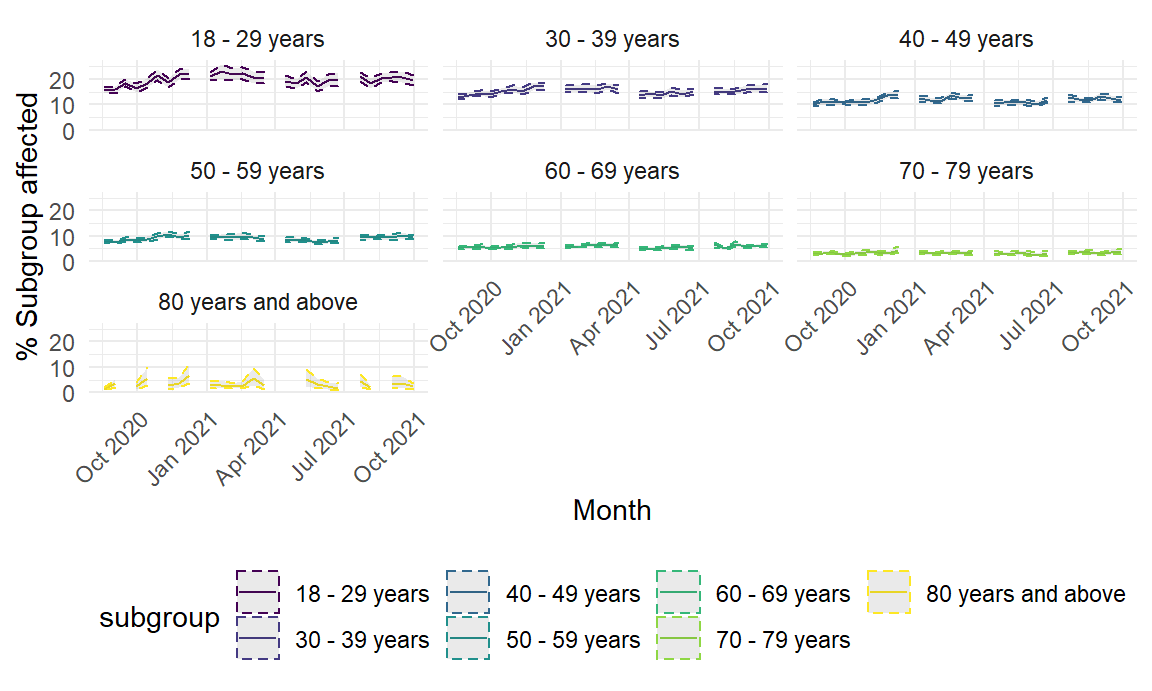
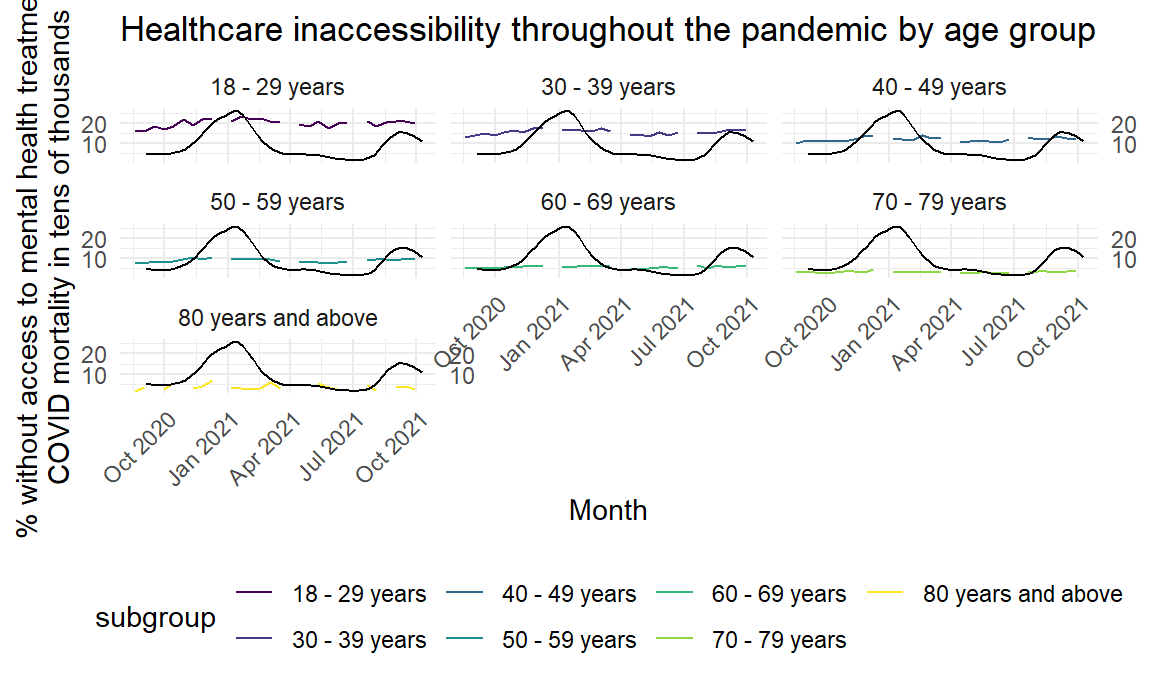
spatial analysis added to site

diff --git a/mental_health.html b/mental_health.html
@@ -340,6 +340,9 @@ div.tocify {
   <a href="analysis_2.html">Data Exploration</a>
 </li>
 <li>
+  <a href="spatial-analysis.html">Spatial Analysis</a>
+</li>
+<li>
   <a href="dashboard.html">Dashboard</a>
 </li>
 <li>
@@ -385,7 +388,7 @@ div.tocify {
 <p>The proportion of Americans who were not able to get access to mental health care when they needed it, by age (4x4 facet by age) The proportion of Americans who used pharmaceuticals for their mental health, by age (4x4 facet by age)</p>
 <p>4x4 with CIs or one chart with no CI (adding CI might get messy)</p>
 <p>Maybe overlay a second set of axes (x2=x1, y2 = COVID count of deaths by end of week) to compare COVID deaths to the mental health status by age?</p>
-<p>COVID mortality from Oct 2020 to Oct 2021</p>
+<p>We include a crude graph of COVID mortality from Oct 2020 to Oct 2021 to add context</p>
 <pre class="r"><code>cm_df = read_csv(&quot;Provisional_COVID-19_Death_Counts_by_Week_Ending_Date_and_State.csv&quot;) %&gt;% 
   janitor::clean_names() %&gt;%
   mutate(
@@ -424,8 +427,8 @@ div.tocify {
   ggplot(aes(x = end_date, y = covid_19_deaths)) + 
   geom_line()
 ggplotly(z)</code></pre>
-<div id="htmlwidget-cf94200eb63e150bdd5d" style="width:90%;height:345.6px;" class="plotly html-widget"></div>
-<script type="application/json" data-for="htmlwidget-cf94200eb63e150bdd5d">{"x":{"data":[{"x":[18510,18517,18524,18531,18538,18545,18552,18559,18566,18573,18580,18587,18594,18601,18608,18615,18622,18629,18636,18643,18650,18657,18664,18671,18678,18685,18692,18699,18706,18713,18720,18727,18734,18741,18748,18755,18762,18769,18776,18783,18790,18797,18804,18811,18818,18825,18832,18839,18846,18853,18860,18867,18874,18881,18888,18895,18902,18909],"y":[5018,4625,4276,4300,4242,4818,5199,5996,7025,8760,10651,13359,15623,18564,20923,22327,23379,24869,25986,25705,23677,20312,17028,13519,10813,8640,6717,5711,4887,4441,4181,4295,4434,4578,4158,3980,3671,3226,2764,2341,2033,1769,1625,1533,1637,1974,2754,4091,6427,9293,12059,13992,15235,15101,14926,14010,12385,10829],"text":["end_date: 2020-09-05<br />covid_19_deaths:  5018","end_date: 2020-09-12<br />covid_19_deaths:  4625","end_date: 2020-09-19<br />covid_19_deaths:  4276","end_date: 2020-09-26<br />covid_19_deaths:  4300","end_date: 2020-10-03<br />covid_19_deaths:  4242","end_date: 2020-10-10<br />covid_19_deaths:  4818","end_date: 2020-10-17<br />covid_19_deaths:  5199","end_date: 2020-10-24<br />covid_19_deaths:  5996","end_date: 2020-10-31<br />covid_19_deaths:  7025","end_date: 2020-11-07<br />covid_19_deaths:  8760","end_date: 2020-11-14<br />covid_19_deaths: 10651","end_date: 2020-11-21<br />covid_19_deaths: 13359","end_date: 2020-11-28<br />covid_19_deaths: 15623","end_date: 2020-12-05<br />covid_19_deaths: 18564","end_date: 2020-12-12<br />covid_19_deaths: 20923","end_date: 2020-12-19<br />covid_19_deaths: 22327","end_date: 2020-12-26<br />covid_19_deaths: 23379","end_date: 2021-01-02<br />covid_19_deaths: 24869","end_date: 2021-01-09<br />covid_19_deaths: 25986","end_date: 2021-01-16<br />covid_19_deaths: 25705","end_date: 2021-01-23<br />covid_19_deaths: 23677","end_date: 2021-01-30<br />covid_19_deaths: 20312","end_date: 2021-02-06<br />covid_19_deaths: 17028","end_date: 2021-02-13<br />covid_19_deaths: 13519","end_date: 2021-02-20<br />covid_19_deaths: 10813","end_date: 2021-02-27<br />covid_19_deaths:  8640","end_date: 2021-03-06<br />covid_19_deaths:  6717","end_date: 2021-03-13<br />covid_19_deaths:  5711","end_date: 2021-03-20<br />covid_19_deaths:  4887","end_date: 2021-03-27<br />covid_19_deaths:  4441","end_date: 2021-04-03<br />covid_19_deaths:  4181","end_date: 2021-04-10<br />covid_19_deaths:  4295","end_date: 2021-04-17<br />covid_19_deaths:  4434","end_date: 2021-04-24<br />covid_19_deaths:  4578","end_date: 2021-05-01<br />covid_19_deaths:  4158","end_date: 2021-05-08<br />covid_19_deaths:  3980","end_date: 2021-05-15<br />covid_19_deaths:  3671","end_date: 2021-05-22<br />covid_19_deaths:  3226","end_date: 2021-05-29<br />covid_19_deaths:  2764","end_date: 2021-06-05<br />covid_19_deaths:  2341","end_date: 2021-06-12<br />covid_19_deaths:  2033","end_date: 2021-06-19<br />covid_19_deaths:  1769","end_date: 2021-06-26<br />covid_19_deaths:  1625","end_date: 2021-07-03<br />covid_19_deaths:  1533","end_date: 2021-07-10<br />covid_19_deaths:  1637","end_date: 2021-07-17<br />covid_19_deaths:  1974","end_date: 2021-07-24<br />covid_19_deaths:  2754","end_date: 2021-07-31<br />covid_19_deaths:  4091","end_date: 2021-08-07<br />covid_19_deaths:  6427","end_date: 2021-08-14<br />covid_19_deaths:  9293","end_date: 2021-08-21<br />covid_19_deaths: 12059","end_date: 2021-08-28<br />covid_19_deaths: 13992","end_date: 2021-09-04<br />covid_19_deaths: 15235","end_date: 2021-09-11<br />covid_19_deaths: 15101","end_date: 2021-09-18<br />covid_19_deaths: 14926","end_date: 2021-09-25<br />covid_19_deaths: 14010","end_date: 2021-10-02<br />covid_19_deaths: 12385","end_date: 2021-10-09<br />covid_19_deaths: 10829"],"type":"scatter","mode":"lines","line":{"width":1.88976377952756,"color":"rgba(0,0,0,1)","dash":"solid"},"hoveron":"points","showlegend":false,"xaxis":"x","yaxis":"y","hoverinfo":"text","frame":null}],"layout":{"margin":{"t":28.1800844517574,"r":7.30593607305936,"b":42.1344223513008,"l":54.7945205479452},"font":{"color":"rgba(0,0,0,1)","family":"","size":14.6118721461187},"xaxis":{"domain":[0,1],"automargin":true,"type":"linear","autorange":false,"range":[18490.05,18928.95],"tickmode":"array","ticktext":["Oct 2020","Jan 2021","Apr 2021","Jul 2021","Oct 2021"],"tickvals":[18536,18628,18718,18809,18901],"categoryorder":"array","categoryarray":["Oct 2020","Jan 2021","Apr 2021","Jul 2021","Oct 2021"],"nticks":null,"ticks":"","tickcolor":null,"ticklen":3.65296803652968,"tickwidth":0,"showticklabels":true,"tickfont":{"color":"rgba(77,77,77,1)","family":"","size":11.689497716895},"tickangle":-0,"showline":false,"linecolor":null,"linewidth":0,"showgrid":true,"gridcolor":"rgba(235,235,235,1)","gridwidth":0.66417600664176,"zeroline":false,"anchor":"y","title":{"text":"end_date","font":{"color":"rgba(0,0,0,1)","family":"","size":14.6118721461187}},"hoverformat":".2f"},"yaxis":{"domain":[0,1],"automargin":true,"type":"linear","autorange":false,"range":[310.35,27208.65],"tickmode":"array","ticktext":["10000","20000"],"tickvals":[10000,20000],"categoryorder":"array","categoryarray":["10000","20000"],"nticks":null,"ticks":"","tickcolor":null,"ticklen":3.65296803652968,"tickwidth":0,"showticklabels":true,"tickfont":{"color":"rgba(77,77,77,1)","family":"","size":11.689497716895},"tickangle":-0,"showline":false,"linecolor":null,"linewidth":0,"showgrid":true,"gridcolor":"rgba(235,235,235,1)","gridwidth":0.66417600664176,"zeroline":false,"anchor":"x","title":{"text":"covid_19_deaths","font":{"color":"rgba(0,0,0,1)","family":"","size":14.6118721461187}},"hoverformat":".2f"},"shapes":[{"type":"rect","fillcolor":null,"line":{"color":null,"width":0,"linetype":[]},"yref":"paper","xref":"paper","x0":0,"x1":1,"y0":0,"y1":1}],"showlegend":false,"legend":{"bgcolor":null,"bordercolor":null,"borderwidth":0,"font":{"color":"rgba(0,0,0,1)","family":"","size":11.689497716895}},"hovermode":"closest","barmode":"relative"},"config":{"doubleClick":"reset","modeBarButtonsToAdd":["hoverclosest","hovercompare"],"showSendToCloud":false},"source":"A","attrs":{"7fa0374166e":{"x":{},"y":{},"type":"scatter"}},"cur_data":"7fa0374166e","visdat":{"7fa0374166e":["function (y) ","x"]},"highlight":{"on":"plotly_click","persistent":false,"dynamic":false,"selectize":false,"opacityDim":0.2,"selected":{"opacity":1},"debounce":0},"shinyEvents":["plotly_hover","plotly_click","plotly_selected","plotly_relayout","plotly_brushed","plotly_brushing","plotly_clickannotation","plotly_doubleclick","plotly_deselect","plotly_afterplot","plotly_sunburstclick"],"base_url":"https://plot.ly"},"evals":[],"jsHooks":[]}</script>
+<div id="htmlwidget-7491f849949b169d29a2" style="width:90%;height:345.6px;" class="plotly html-widget"></div>
+<script type="application/json" data-for="htmlwidget-7491f849949b169d29a2">{"x":{"data":[{"x":[18510,18517,18524,18531,18538,18545,18552,18559,18566,18573,18580,18587,18594,18601,18608,18615,18622,18629,18636,18643,18650,18657,18664,18671,18678,18685,18692,18699,18706,18713,18720,18727,18734,18741,18748,18755,18762,18769,18776,18783,18790,18797,18804,18811,18818,18825,18832,18839,18846,18853,18860,18867,18874,18881,18888,18895,18902,18909],"y":[5018,4625,4276,4300,4242,4818,5199,5996,7025,8760,10651,13359,15623,18564,20923,22327,23379,24869,25986,25705,23677,20312,17028,13519,10813,8640,6717,5711,4887,4441,4181,4295,4434,4578,4158,3980,3671,3226,2764,2341,2033,1769,1625,1533,1637,1974,2754,4091,6427,9293,12059,13992,15235,15101,14926,14010,12385,10829],"text":["end_date: 2020-09-05<br />covid_19_deaths:  5018","end_date: 2020-09-12<br />covid_19_deaths:  4625","end_date: 2020-09-19<br />covid_19_deaths:  4276","end_date: 2020-09-26<br />covid_19_deaths:  4300","end_date: 2020-10-03<br />covid_19_deaths:  4242","end_date: 2020-10-10<br />covid_19_deaths:  4818","end_date: 2020-10-17<br />covid_19_deaths:  5199","end_date: 2020-10-24<br />covid_19_deaths:  5996","end_date: 2020-10-31<br />covid_19_deaths:  7025","end_date: 2020-11-07<br />covid_19_deaths:  8760","end_date: 2020-11-14<br />covid_19_deaths: 10651","end_date: 2020-11-21<br />covid_19_deaths: 13359","end_date: 2020-11-28<br />covid_19_deaths: 15623","end_date: 2020-12-05<br />covid_19_deaths: 18564","end_date: 2020-12-12<br />covid_19_deaths: 20923","end_date: 2020-12-19<br />covid_19_deaths: 22327","end_date: 2020-12-26<br />covid_19_deaths: 23379","end_date: 2021-01-02<br />covid_19_deaths: 24869","end_date: 2021-01-09<br />covid_19_deaths: 25986","end_date: 2021-01-16<br />covid_19_deaths: 25705","end_date: 2021-01-23<br />covid_19_deaths: 23677","end_date: 2021-01-30<br />covid_19_deaths: 20312","end_date: 2021-02-06<br />covid_19_deaths: 17028","end_date: 2021-02-13<br />covid_19_deaths: 13519","end_date: 2021-02-20<br />covid_19_deaths: 10813","end_date: 2021-02-27<br />covid_19_deaths:  8640","end_date: 2021-03-06<br />covid_19_deaths:  6717","end_date: 2021-03-13<br />covid_19_deaths:  5711","end_date: 2021-03-20<br />covid_19_deaths:  4887","end_date: 2021-03-27<br />covid_19_deaths:  4441","end_date: 2021-04-03<br />covid_19_deaths:  4181","end_date: 2021-04-10<br />covid_19_deaths:  4295","end_date: 2021-04-17<br />covid_19_deaths:  4434","end_date: 2021-04-24<br />covid_19_deaths:  4578","end_date: 2021-05-01<br />covid_19_deaths:  4158","end_date: 2021-05-08<br />covid_19_deaths:  3980","end_date: 2021-05-15<br />covid_19_deaths:  3671","end_date: 2021-05-22<br />covid_19_deaths:  3226","end_date: 2021-05-29<br />covid_19_deaths:  2764","end_date: 2021-06-05<br />covid_19_deaths:  2341","end_date: 2021-06-12<br />covid_19_deaths:  2033","end_date: 2021-06-19<br />covid_19_deaths:  1769","end_date: 2021-06-26<br />covid_19_deaths:  1625","end_date: 2021-07-03<br />covid_19_deaths:  1533","end_date: 2021-07-10<br />covid_19_deaths:  1637","end_date: 2021-07-17<br />covid_19_deaths:  1974","end_date: 2021-07-24<br />covid_19_deaths:  2754","end_date: 2021-07-31<br />covid_19_deaths:  4091","end_date: 2021-08-07<br />covid_19_deaths:  6427","end_date: 2021-08-14<br />covid_19_deaths:  9293","end_date: 2021-08-21<br />covid_19_deaths: 12059","end_date: 2021-08-28<br />covid_19_deaths: 13992","end_date: 2021-09-04<br />covid_19_deaths: 15235","end_date: 2021-09-11<br />covid_19_deaths: 15101","end_date: 2021-09-18<br />covid_19_deaths: 14926","end_date: 2021-09-25<br />covid_19_deaths: 14010","end_date: 2021-10-02<br />covid_19_deaths: 12385","end_date: 2021-10-09<br />covid_19_deaths: 10829"],"type":"scatter","mode":"lines","line":{"width":1.88976377952756,"color":"rgba(0,0,0,1)","dash":"solid"},"hoveron":"points","showlegend":false,"xaxis":"x","yaxis":"y","hoverinfo":"text","frame":null}],"layout":{"margin":{"t":28.1800844517574,"r":7.30593607305936,"b":42.1344223513008,"l":54.7945205479452},"font":{"color":"rgba(0,0,0,1)","family":"","size":14.6118721461187},"xaxis":{"domain":[0,1],"automargin":true,"type":"linear","autorange":false,"range":[18490.05,18928.95],"tickmode":"array","ticktext":["Oct 2020","Jan 2021","Apr 2021","Jul 2021","Oct 2021"],"tickvals":[18536,18628,18718,18809,18901],"categoryorder":"array","categoryarray":["Oct 2020","Jan 2021","Apr 2021","Jul 2021","Oct 2021"],"nticks":null,"ticks":"","tickcolor":null,"ticklen":3.65296803652968,"tickwidth":0,"showticklabels":true,"tickfont":{"color":"rgba(77,77,77,1)","family":"","size":11.689497716895},"tickangle":-0,"showline":false,"linecolor":null,"linewidth":0,"showgrid":true,"gridcolor":"rgba(235,235,235,1)","gridwidth":0.66417600664176,"zeroline":false,"anchor":"y","title":{"text":"end_date","font":{"color":"rgba(0,0,0,1)","family":"","size":14.6118721461187}},"hoverformat":".2f"},"yaxis":{"domain":[0,1],"automargin":true,"type":"linear","autorange":false,"range":[310.35,27208.65],"tickmode":"array","ticktext":["10000","20000"],"tickvals":[10000,20000],"categoryorder":"array","categoryarray":["10000","20000"],"nticks":null,"ticks":"","tickcolor":null,"ticklen":3.65296803652968,"tickwidth":0,"showticklabels":true,"tickfont":{"color":"rgba(77,77,77,1)","family":"","size":11.689497716895},"tickangle":-0,"showline":false,"linecolor":null,"linewidth":0,"showgrid":true,"gridcolor":"rgba(235,235,235,1)","gridwidth":0.66417600664176,"zeroline":false,"anchor":"x","title":{"text":"covid_19_deaths","font":{"color":"rgba(0,0,0,1)","family":"","size":14.6118721461187}},"hoverformat":".2f"},"shapes":[{"type":"rect","fillcolor":null,"line":{"color":null,"width":0,"linetype":[]},"yref":"paper","xref":"paper","x0":0,"x1":1,"y0":0,"y1":1}],"showlegend":false,"legend":{"bgcolor":null,"bordercolor":null,"borderwidth":0,"font":{"color":"rgba(0,0,0,1)","family":"","size":11.689497716895}},"hovermode":"closest","barmode":"relative"},"config":{"doubleClick":"reset","modeBarButtonsToAdd":["hoverclosest","hovercompare"],"showSendToCloud":false},"source":"A","attrs":{"7a147a28ce4":{"x":{},"y":{},"type":"scatter"}},"cur_data":"7a147a28ce4","visdat":{"7a147a28ce4":["function (y) ","x"]},"highlight":{"on":"plotly_click","persistent":false,"dynamic":false,"selectize":false,"opacityDim":0.2,"selected":{"opacity":1},"debounce":0},"shinyEvents":["plotly_hover","plotly_click","plotly_selected","plotly_relayout","plotly_brushed","plotly_brushing","plotly_clickannotation","plotly_doubleclick","plotly_deselect","plotly_afterplot","plotly_sunburstclick"],"base_url":"https://plot.ly"},"evals":[],"jsHooks":[]}</script>
 <p>Cleaning Mental Healthcare data, filtering separately by age and state</p>
 <pre class="r"><code>mh_care_df = read_csv(&quot;Mental_Health_Care_in_the_Last_4_Weeks.csv&quot;) %&gt;%  
   janitor::clean_names() %&gt;% 
@@ -447,7 +450,8 @@ ggplotly(z)</code></pre>
 ## i Specify the column types or set `show_col_types = FALSE` to quiet this message.</code></pre>
 <pre class="r"><code>mh_age = c(&quot;18 - 29 years&quot;, &quot;30 - 39 years&quot;, &quot;40 - 49 years&quot;, &quot;50 - 59 years&quot;, &quot;60 - 69 years&quot;, &quot;70 - 79 years&quot;, &quot;80 years and above&quot;)
 
-mh_age_df = mh_care_df %&gt;% filter(subgroup %in% mh_age) %&gt;% 
+mh_age_df = mh_care_df %&gt;% 
+  filter(subgroup %in% mh_age) %&gt;% 
   #filter(indicator %in% &quot;Took Prescription Medication for Mental Health And/Or Received Counseling or Therapy, Last 4 Weeks&quot;)
   #filter(indicator %in% &quot;Took Prescription Medication for Mental Health, Last 4 Weeks&quot;)
   filter(indicator %in% &quot;Needed Counseling or Therapy But Did Not Get It, Last 4 Weeks&quot;)
@@ -455,7 +459,8 @@ mh_age_df = mh_care_df %&gt;% filter(subgroup %in% mh_age) %&gt;%
 
 mh_state = c(&quot;By Race/Hispanic ethnicity&quot;, &quot;United States&quot;, &quot;By Disability status&quot;, &quot;By Gender identity&quot;, &quot;By Age&quot;, &quot;By Sex&quot;, &quot;By Education&quot;, &quot;National Estimate&quot;, &quot;By Presence of Symptoms of Anxiety/Depression&quot;, &quot;By Sexual orientation&quot;)
 
-mh_state_df = mh_care_df %&gt;% filter(group %notin% mh_state) %&gt;% 
+mh_state_df = mh_care_df %&gt;% 
+  filter(group %notin% mh_state) %&gt;% 
   #filter(indicator %in% &quot;Took Prescription Medication for Mental Health And/Or Received Counseling or Therapy, Last 4 Weeks&quot;)
   #filter(indicator %in% &quot;Took Prescription Medication for Mental Health, Last 4 Weeks&quot;)
   filter(indicator %in% &quot;Needed Counseling or Therapy But Did Not Get It, Last 4 Weeks&quot;)
@@ -496,33 +501,34 @@ anxdep_state_df = anxdep_df %&gt;% filter(group %notin% anxdep_state) %&gt;%
 <div id="plotting-age-vs" class="section level2">
 <h2>Plotting Age vs …</h2>
 <pre class="r"><code>#Date vs subgroup w/ facet w/ CI
-mh_age_df %&gt;%
-  ggplot(aes(x = time_period_start_date, y = value, color = subgroup)) + 
-  geom_line() + 
-  geom_ribbon(aes(ymin=low_ci, ymax=high_ci), linetype=2, alpha=0.1)  + 
-  facet_wrap(vars(mh_age_df$subgroup)) +
-  theme(axis.text.x = element_text(angle = 45, hjust = 1)) +
-  labs(x = &quot;Month&quot;, y = &quot;% Subgroup affected&quot;)</code></pre>
-<p><img src="mental_health_files/figure-html/unnamed-chunk-5-1.png" width="90%" /></p>
-<pre class="r"><code>#Date vs subgroup, no facets w/ CI
-mh_age_df %&gt;%
-  ggplot(aes(x = time_period_start_date, y = value, color = subgroup)) + 
-  geom_line() + 
-  geom_ribbon(aes(ymin=low_ci, ymax=high_ci), linetype=2, alpha=0.1)  + 
-#  facet_wrap(vars(mh_age_df$subgroup)) +
-  theme(axis.text.x = element_text(angle = 45, hjust = 1)) +
-  labs(x = &quot;Month&quot;, y = &quot;% Subgroup affected&quot;, title = &quot;Healthcare inaccessibility throughout the pandemic by age group &quot;)</code></pre>
-<p><img src="mental_health_files/figure-html/unnamed-chunk-5-2.png" width="90%" /></p>
-<pre class="r"><code># mental health availability w/ facet w/o CI w/COVID mort
+# mh_age_df %&gt;%
+#   ggplot(aes(x = time_period_start_date, y = value, color = subgroup)) + 
+#   geom_line() + 
+#   geom_ribbon(aes(ymin=low_ci, ymax=high_ci), linetype=2, alpha=0.1)  + 
+#   facet_wrap(vars(mh_age_df$subgroup)) +
+#   theme(axis.text.x = element_text(angle = 45, hjust = 1), axis.text.y = element_text(angle = 45, hjust = 1)) +
+#   scale_y_continuous(breaks = seq(0, 40, 5)) +
+#   labs(x = &quot;Month&quot;, y = &quot;% Subgroup affected&quot;)
+# 
+# #Date vs subgroup, no facets w/ CI
+# mh_age_df %&gt;%
+#   ggplot(aes(x = time_period_start_date, y = value, color = subgroup)) + 
+#   geom_line() + 
+#   geom_ribbon(aes(ymin=low_ci, ymax=high_ci), linetype=2, alpha=0.1)  + 
+# #  facet_wrap(vars(mh_age_df$subgroup)) +
+#   theme(axis.text.x = element_text(angle = 45, hjust = 1), axis.text.y = element_text(angle = 45, hjust = 1)) +
+#   labs(x = &quot;Month&quot;, y = &quot;% Subgroup affected&quot;, title = &quot;Healthcare inaccessibility throughout the pandemic by age group &quot;)
+
+# mental health availability w/ facet w/o CI w/COVID mort
 ggplot() + 
   geom_line(data = mh_age_df, aes(x = time_period_start_date, y = value, color = subgroup) ) +
   geom_line(data = cm_df, aes(x = end_date, y = covid_19_deaths * 0.001) ) + 
   #geom_ribbon(aes(data = mh_age_df, ymin=low_ci, ymax=high_ci), linetype=2, alpha=0.1)  +
   facet_wrap(vars(subgroup)) +
-  scale_y_continuous(breaks = seq(0, 40, 5), sec.axis = sec_axis(trans = ~.*001)) +
+  scale_y_continuous(sec.axis = sec_axis(trans = ~.*001)) +
   theme(axis.text.x = element_text(angle = 45, hjust = 1)) + 
   labs(x = &quot;Month&quot;, y = &quot;% without access to mental health treatment \n COVID mortality in tens of thousands&quot;,title = &quot;Healthcare inaccessibility throughout the pandemic by age group &quot;)</code></pre>
-<p><img src="mental_health_files/figure-html/unnamed-chunk-5-3.png" width="90%" /></p>
+<p><img src="mental_health_files/figure-html/unnamed-chunk-5-1.png" width="90%" /></p>
 <pre class="r"><code>#ggplotly(g)
 
 ## % Screened for Anxiety or Depression by age
@@ -531,10 +537,10 @@ ggplot() +
   geom_line(data = cm_anxdep_df, aes(x = end_date, y = covid_19_deaths * 0.001) ) + 
   #geom_ribbon(aes(data = mh_age_df, ymin=low_ci, ymax=high_ci), linetype=2, alpha=0.1)  +
   facet_wrap(vars(subgroup)) +
-  scale_y_continuous(breaks = seq(0, 80, 10), sec.axis = sec_axis(trans = ~.*001)) +
+  scale_y_continuous(breaks = seq(0, 70, 20), sec.axis = sec_axis(trans = ~.*001)) +
   theme(axis.text.x = element_text(angle = 45, hjust = 1)) + 
   labs(x = &quot;Month&quot;, y = &quot;% Subgroup affected \n COVID mortality in tens of thousands&quot;, title = &quot;% Positive screening for Anxiety or Depression by age&quot;)</code></pre>
-<p><img src="mental_health_files/figure-html/unnamed-chunk-5-4.png" width="90%" /></p>
+<p><img src="mental_health_files/figure-html/unnamed-chunk-5-2.png" width="90%" /></p>
 </div>
 <div id="hypothesis-test" class="section level2">
 <h2>Hypothesis Test</h2>
